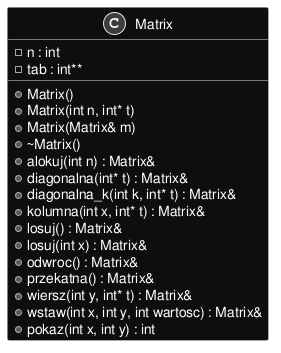
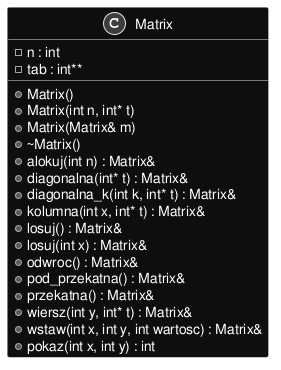
deploy: b374451ecf7142c7efa0f21c524fbab476ba06c3

Changed region(s): [[0.0285, 0.0, 0.9395, 0.966]]

diff --git a/Matrix_8hpp_source.html b/Matrix_8hpp_source.html
@@ -105,52 +105,54 @@ $(function(){initNavTree('Matrix_8hpp_source.html',''); initResizable(true); });
 <a href="Matrix_8hpp.html">Idź do dokumentacji tego pliku.</a><div class="fragment"><div class="line"><a id="l00001" name="l00001"></a><span class="lineno">    1</span><span class="preprocessor">#ifndef A7F977BB_AE3A_48CD_A727_8AFC90710D10</span></div>
 <div class="line"><a id="l00002" name="l00002"></a><span class="lineno">    2</span><span class="preprocessor">#define A7F977BB_AE3A_48CD_A727_8AFC90710D10</span></div>
 <div class="line"><a id="l00003" name="l00003"></a><span class="lineno">    3</span> </div>
-<div class="foldopen" id="foldopen00029" data-start="{" data-end="};">
-<div class="line"><a id="l00029" name="l00029"></a><span class="lineno"><a class="line" href="classMatrix.html">   29</a></span><span class="keyword">class </span><a class="code hl_class" href="classMatrix.html">Matrix</a> {</div>
-<div class="line"><a id="l00030" name="l00030"></a><span class="lineno">   30</span>    <span class="keyword">private</span>:</div>
-<div class="line"><a id="l00031" name="l00031"></a><span class="lineno"><a class="line" href="classMatrix.html#a6f755dbfbefb9b4ba6c2b3acea8932f2">   31</a></span>    <span class="keywordtype">int</span> <a class="code hl_variable" href="classMatrix.html#a6f755dbfbefb9b4ba6c2b3acea8932f2">n</a>;</div>
-<div class="line"><a id="l00032" name="l00032"></a><span class="lineno"><a class="line" href="classMatrix.html#af45069dcccaf5064534287376925dde9">   32</a></span>    <span class="keywordtype">int</span>** <a class="code hl_variable" href="classMatrix.html#af45069dcccaf5064534287376925dde9">tab</a>;</div>
-<div class="line"><a id="l00033" name="l00033"></a><span class="lineno">   33</span>    <span class="keyword">public</span>:</div>
-<div class="line"><a id="l00034" name="l00034"></a><span class="lineno">   34</span>    <a class="code hl_function" href="classMatrix.html#a2dba13c45127354c9f75ef576f49269b">Matrix</a>();</div>
-<div class="line"><a id="l00035" name="l00035"></a><span class="lineno">   35</span>    <a class="code hl_function" href="classMatrix.html#a2dba13c45127354c9f75ef576f49269b">Matrix</a>(<span class="keywordtype">int</span> <a class="code hl_variable" href="classMatrix.html#a6f755dbfbefb9b4ba6c2b3acea8932f2">n</a>, <span class="keywordtype">int</span>* t);</div>
-<div class="line"><a id="l00036" name="l00036"></a><span class="lineno">   36</span>    <a class="code hl_function" href="classMatrix.html#a2dba13c45127354c9f75ef576f49269b">Matrix</a>(<a class="code hl_class" href="classMatrix.html">Matrix</a>&amp; m);</div>
-<div class="line"><a id="l00037" name="l00037"></a><span class="lineno">   37</span>    <a class="code hl_function" href="classMatrix.html#a7e496da93f0e3165a0dc82d79f7ba545">~Matrix</a>(<span class="keywordtype">void</span>);</div>
-<div class="line"><a id="l00038" name="l00038"></a><span class="lineno">   38</span> </div>
+<div class="foldopen" id="foldopen00030" data-start="{" data-end="};">
+<div class="line"><a id="l00030" name="l00030"></a><span class="lineno"><a class="line" href="classMatrix.html">   30</a></span><span class="keyword">class </span><a class="code hl_class" href="classMatrix.html">Matrix</a> {</div>
+<div class="line"><a id="l00031" name="l00031"></a><span class="lineno">   31</span>    <span class="keyword">private</span>:</div>
+<div class="line"><a id="l00032" name="l00032"></a><span class="lineno"><a class="line" href="classMatrix.html#a6f755dbfbefb9b4ba6c2b3acea8932f2">   32</a></span>    <span class="keywordtype">int</span> <a class="code hl_variable" href="classMatrix.html#a6f755dbfbefb9b4ba6c2b3acea8932f2">n</a>;</div>
+<div class="line"><a id="l00033" name="l00033"></a><span class="lineno"><a class="line" href="classMatrix.html#af45069dcccaf5064534287376925dde9">   33</a></span>    <span class="keywordtype">int</span>** <a class="code hl_variable" href="classMatrix.html#af45069dcccaf5064534287376925dde9">tab</a>;</div>
+<div class="line"><a id="l00034" name="l00034"></a><span class="lineno">   34</span>    <span class="keyword">public</span>:</div>
+<div class="line"><a id="l00035" name="l00035"></a><span class="lineno">   35</span>    <a class="code hl_function" href="classMatrix.html#a2dba13c45127354c9f75ef576f49269b">Matrix</a>();</div>
+<div class="line"><a id="l00036" name="l00036"></a><span class="lineno">   36</span>    <a class="code hl_function" href="classMatrix.html#a2dba13c45127354c9f75ef576f49269b">Matrix</a>(<span class="keywordtype">int</span> <a class="code hl_variable" href="classMatrix.html#a6f755dbfbefb9b4ba6c2b3acea8932f2">n</a>, <span class="keywordtype">int</span>* t);</div>
+<div class="line"><a id="l00037" name="l00037"></a><span class="lineno">   37</span>    <a class="code hl_function" href="classMatrix.html#a2dba13c45127354c9f75ef576f49269b">Matrix</a>(<a class="code hl_class" href="classMatrix.html">Matrix</a>&amp; m);</div>
+<div class="line"><a id="l00038" name="l00038"></a><span class="lineno">   38</span>    <a class="code hl_function" href="classMatrix.html#a7e496da93f0e3165a0dc82d79f7ba545">~Matrix</a>(<span class="keywordtype">void</span>);</div>
 <div class="line"><a id="l00039" name="l00039"></a><span class="lineno">   39</span> </div>
-<div class="line"><a id="l00040" name="l00040"></a><span class="lineno">   40</span>    <a class="code hl_class" href="classMatrix.html">Matrix</a>&amp; <a class="code hl_function" href="classMatrix.html#ab3f0a19323d5bd35dca008c68b99051d">alokuj</a>(<span class="keywordtype">int</span> <a class="code hl_variable" href="classMatrix.html#a6f755dbfbefb9b4ba6c2b3acea8932f2">n</a>);</div>
-<div class="line"><a id="l00041" name="l00041"></a><span class="lineno">   41</span>    <a class="code hl_class" href="classMatrix.html">Matrix</a>&amp; <a class="code hl_function" href="classMatrix.html#a4c51072cbc09f22715057260d901b746">wstaw</a>(<span class="keywordtype">int</span> x, <span class="keywordtype">int</span> y, <span class="keywordtype">int</span> wartosc);</div>
-<div class="line"><a id="l00042" name="l00042"></a><span class="lineno">   42</span>    <span class="keywordtype">int</span> <a class="code hl_function" href="classMatrix.html#aed115facfa208a9530c4acde26ffe9b4">pokaz</a>(<span class="keywordtype">int</span> x, <span class="keywordtype">int</span> y);</div>
-<div class="line"><a id="l00043" name="l00043"></a><span class="lineno">   43</span>    <a class="code hl_class" href="classMatrix.html">Matrix</a>&amp; <a class="code hl_function" href="classMatrix.html#a5b1bb742c2b57a692b7bfcc7310ea5b8">odwroc</a>(<span class="keywordtype">void</span>);</div>
-<div class="line"><a id="l00044" name="l00044"></a><span class="lineno">   44</span>    <a class="code hl_class" href="classMatrix.html">Matrix</a>&amp; <a class="code hl_function" href="classMatrix.html#a9890f7ceadc64dfce30c453bc766fbc1">losuj</a>(<span class="keywordtype">void</span>);</div>
-<div class="line"><a id="l00045" name="l00045"></a><span class="lineno">   45</span>    <a class="code hl_class" href="classMatrix.html">Matrix</a>&amp; <a class="code hl_function" href="classMatrix.html#a9890f7ceadc64dfce30c453bc766fbc1">losuj</a>(<span class="keywordtype">int</span> x);</div>
-<div class="line"><a id="l00046" name="l00046"></a><span class="lineno">   46</span>    <a class="code hl_class" href="classMatrix.html">Matrix</a>&amp; <a class="code hl_function" href="classMatrix.html#a58be50b5cc890341c14b1a9b370ab3ea">diagonalna</a>(<span class="keywordtype">int</span>* t);</div>
-<div class="line"><a id="l00047" name="l00047"></a><span class="lineno">   47</span>    <a class="code hl_class" href="classMatrix.html">Matrix</a>&amp; <a class="code hl_function" href="classMatrix.html#adc718e6ae5b2a8b3943a4e8c4bc53d9e">diagonalna_k</a>(<span class="keywordtype">int</span> k, <span class="keywordtype">int</span>* t);</div>
-<div class="line"><a id="l00048" name="l00048"></a><span class="lineno">   48</span>    <a class="code hl_class" href="classMatrix.html">Matrix</a>&amp; <a class="code hl_function" href="classMatrix.html#a07c8cf926bbe71edb6b6de6651e3c3ff">kolumna</a>(<span class="keywordtype">int</span> x, <span class="keywordtype">int</span>* t); </div>
-<div class="line"><a id="l00049" name="l00049"></a><span class="lineno">   49</span>    <a class="code hl_class" href="classMatrix.html">Matrix</a>&amp; <a class="code hl_function" href="classMatrix.html#ab248526b2a9757b3134c8f605699d2af">wiersz</a>(<span class="keywordtype">int</span> y, <span class="keywordtype">int</span>* t);</div>
-<div class="line"><a id="l00050" name="l00050"></a><span class="lineno">   50</span>    <a class="code hl_class" href="classMatrix.html">Matrix</a>&amp; <a class="code hl_function" href="classMatrix.html#a5a803eb1eddeeb51348addc3df4adfc4">przekatna</a>(<span class="keywordtype">void</span>); </div>
-<div class="line"><a id="l00051" name="l00051"></a><span class="lineno">   51</span>};</div>
+<div class="line"><a id="l00040" name="l00040"></a><span class="lineno">   40</span> </div>
+<div class="line"><a id="l00041" name="l00041"></a><span class="lineno">   41</span>    <a class="code hl_class" href="classMatrix.html">Matrix</a>&amp; <a class="code hl_function" href="classMatrix.html#ab3f0a19323d5bd35dca008c68b99051d">alokuj</a>(<span class="keywordtype">int</span> <a class="code hl_variable" href="classMatrix.html#a6f755dbfbefb9b4ba6c2b3acea8932f2">n</a>);</div>
+<div class="line"><a id="l00042" name="l00042"></a><span class="lineno">   42</span>    <a class="code hl_class" href="classMatrix.html">Matrix</a>&amp; <a class="code hl_function" href="classMatrix.html#a4c51072cbc09f22715057260d901b746">wstaw</a>(<span class="keywordtype">int</span> x, <span class="keywordtype">int</span> y, <span class="keywordtype">int</span> wartosc);</div>
+<div class="line"><a id="l00043" name="l00043"></a><span class="lineno">   43</span>    <span class="keywordtype">int</span> <a class="code hl_function" href="classMatrix.html#aed115facfa208a9530c4acde26ffe9b4">pokaz</a>(<span class="keywordtype">int</span> x, <span class="keywordtype">int</span> y);</div>
+<div class="line"><a id="l00044" name="l00044"></a><span class="lineno">   44</span>    <a class="code hl_class" href="classMatrix.html">Matrix</a>&amp; <a class="code hl_function" href="classMatrix.html#a5b1bb742c2b57a692b7bfcc7310ea5b8">odwroc</a>(<span class="keywordtype">void</span>);</div>
+<div class="line"><a id="l00045" name="l00045"></a><span class="lineno">   45</span>    <a class="code hl_class" href="classMatrix.html">Matrix</a>&amp; <a class="code hl_function" href="classMatrix.html#a9890f7ceadc64dfce30c453bc766fbc1">losuj</a>(<span class="keywordtype">void</span>);</div>
+<div class="line"><a id="l00046" name="l00046"></a><span class="lineno">   46</span>    <a class="code hl_class" href="classMatrix.html">Matrix</a>&amp; <a class="code hl_function" href="classMatrix.html#a9890f7ceadc64dfce30c453bc766fbc1">losuj</a>(<span class="keywordtype">int</span> x);</div>
+<div class="line"><a id="l00047" name="l00047"></a><span class="lineno">   47</span>    <a class="code hl_class" href="classMatrix.html">Matrix</a>&amp; <a class="code hl_function" href="classMatrix.html#a58be50b5cc890341c14b1a9b370ab3ea">diagonalna</a>(<span class="keywordtype">int</span>* t);</div>
+<div class="line"><a id="l00048" name="l00048"></a><span class="lineno">   48</span>    <a class="code hl_class" href="classMatrix.html">Matrix</a>&amp; <a class="code hl_function" href="classMatrix.html#adc718e6ae5b2a8b3943a4e8c4bc53d9e">diagonalna_k</a>(<span class="keywordtype">int</span> k, <span class="keywordtype">int</span>* t);</div>
+<div class="line"><a id="l00049" name="l00049"></a><span class="lineno">   49</span>    <a class="code hl_class" href="classMatrix.html">Matrix</a>&amp; <a class="code hl_function" href="classMatrix.html#a07c8cf926bbe71edb6b6de6651e3c3ff">kolumna</a>(<span class="keywordtype">int</span> x, <span class="keywordtype">int</span>* t); </div>
+<div class="line"><a id="l00050" name="l00050"></a><span class="lineno">   50</span>    <a class="code hl_class" href="classMatrix.html">Matrix</a>&amp; <a class="code hl_function" href="classMatrix.html#ab248526b2a9757b3134c8f605699d2af">wiersz</a>(<span class="keywordtype">int</span> y, <span class="keywordtype">int</span>* t);</div>
+<div class="line"><a id="l00051" name="l00051"></a><span class="lineno">   51</span>    <a class="code hl_class" href="classMatrix.html">Matrix</a>&amp; <a class="code hl_function" href="classMatrix.html#a5a803eb1eddeeb51348addc3df4adfc4">przekatna</a>(<span class="keywordtype">void</span>); </div>
+<div class="line"><a id="l00052" name="l00052"></a><span class="lineno"><a class="line" href="classMatrix.html#a94ae5c979b6a38c75ea10988c5319f34">   52</a></span>    <a class="code hl_class" href="classMatrix.html">Matrix</a>&amp; <a class="code hl_function" href="classMatrix.html#a94ae5c979b6a38c75ea10988c5319f34">pod_przekatna</a>(<span class="keywordtype">void</span>);</div>
+<div class="line"><a id="l00053" name="l00053"></a><span class="lineno">   53</span>};</div>
 </div>
-<div class="line"><a id="l00052" name="l00052"></a><span class="lineno">   52</span> </div>
-<div class="line"><a id="l00053" name="l00053"></a><span class="lineno">   53</span> </div>
 <div class="line"><a id="l00054" name="l00054"></a><span class="lineno">   54</span> </div>
 <div class="line"><a id="l00055" name="l00055"></a><span class="lineno">   55</span> </div>
 <div class="line"><a id="l00056" name="l00056"></a><span class="lineno">   56</span> </div>
-<div class="line"><a id="l00057" name="l00057"></a><span class="lineno">   57</span><span class="preprocessor">#endif </span><span class="comment">/* A7F977BB_AE3A_48CD_A727_8AFC90710D10 */</span><span class="preprocessor"></span></div>
-<div class="ttc" id="aclassMatrix_html"><div class="ttname"><a href="classMatrix.html">Matrix</a></div><div class="ttdef"><b>Definicja</b> Matrix.hpp:29</div></div>
+<div class="line"><a id="l00057" name="l00057"></a><span class="lineno">   57</span> </div>
+<div class="line"><a id="l00058" name="l00058"></a><span class="lineno">   58</span> </div>
+<div class="line"><a id="l00059" name="l00059"></a><span class="lineno">   59</span><span class="preprocessor">#endif </span><span class="comment">/* A7F977BB_AE3A_48CD_A727_8AFC90710D10 */</span><span class="preprocessor"></span></div>
+<div class="ttc" id="aclassMatrix_html"><div class="ttname"><a href="classMatrix.html">Matrix</a></div><div class="ttdef"><b>Definicja</b> Matrix.hpp:30</div></div>
 <div class="ttc" id="aclassMatrix_html_a07c8cf926bbe71edb6b6de6651e3c3ff"><div class="ttname"><a href="classMatrix.html#a07c8cf926bbe71edb6b6de6651e3c3ff">Matrix::kolumna</a></div><div class="ttdeci">Matrix &amp; kolumna(int x, int *t)</div><div class="ttdef"><b>Definicja</b> Matrix.cpp:161</div></div>
 <div class="ttc" id="aclassMatrix_html_a2dba13c45127354c9f75ef576f49269b"><div class="ttname"><a href="classMatrix.html#a2dba13c45127354c9f75ef576f49269b">Matrix::Matrix</a></div><div class="ttdeci">Matrix()</div><div class="ttdef"><b>Definicja</b> Matrix.cpp:11</div></div>
 <div class="ttc" id="aclassMatrix_html_a4c51072cbc09f22715057260d901b746"><div class="ttname"><a href="classMatrix.html#a4c51072cbc09f22715057260d901b746">Matrix::wstaw</a></div><div class="ttdeci">Matrix &amp; wstaw(int x, int y, int wartosc)</div><div class="ttdef"><b>Definicja</b> Matrix.cpp:60</div></div>
 <div class="ttc" id="aclassMatrix_html_a58be50b5cc890341c14b1a9b370ab3ea"><div class="ttname"><a href="classMatrix.html#a58be50b5cc890341c14b1a9b370ab3ea">Matrix::diagonalna</a></div><div class="ttdeci">Matrix &amp; diagonalna(int *t)</div><div class="ttdef"><b>Definicja</b> Matrix.cpp:127</div></div>
 <div class="ttc" id="aclassMatrix_html_a5a803eb1eddeeb51348addc3df4adfc4"><div class="ttname"><a href="classMatrix.html#a5a803eb1eddeeb51348addc3df4adfc4">Matrix::przekatna</a></div><div class="ttdeci">Matrix &amp; przekatna(void)</div><div class="ttdef"><b>Definicja</b> Matrix.cpp:182</div></div>
 <div class="ttc" id="aclassMatrix_html_a5b1bb742c2b57a692b7bfcc7310ea5b8"><div class="ttname"><a href="classMatrix.html#a5b1bb742c2b57a692b7bfcc7310ea5b8">Matrix::odwroc</a></div><div class="ttdeci">Matrix &amp; odwroc(void)</div><div class="ttdef"><b>Definicja</b> Matrix.cpp:78</div></div>
-<div class="ttc" id="aclassMatrix_html_a6f755dbfbefb9b4ba6c2b3acea8932f2"><div class="ttname"><a href="classMatrix.html#a6f755dbfbefb9b4ba6c2b3acea8932f2">Matrix::n</a></div><div class="ttdeci">int n</div><div class="ttdef"><b>Definicja</b> Matrix.hpp:31</div></div>
+<div class="ttc" id="aclassMatrix_html_a6f755dbfbefb9b4ba6c2b3acea8932f2"><div class="ttname"><a href="classMatrix.html#a6f755dbfbefb9b4ba6c2b3acea8932f2">Matrix::n</a></div><div class="ttdeci">int n</div><div class="ttdef"><b>Definicja</b> Matrix.hpp:32</div></div>
 <div class="ttc" id="aclassMatrix_html_a7e496da93f0e3165a0dc82d79f7ba545"><div class="ttname"><a href="classMatrix.html#a7e496da93f0e3165a0dc82d79f7ba545">Matrix::~Matrix</a></div><div class="ttdeci">~Matrix(void)</div><div class="ttdef"><b>Definicja</b> Matrix.cpp:4</div></div>
+<div class="ttc" id="aclassMatrix_html_a94ae5c979b6a38c75ea10988c5319f34"><div class="ttname"><a href="classMatrix.html#a94ae5c979b6a38c75ea10988c5319f34">Matrix::pod_przekatna</a></div><div class="ttdeci">Matrix &amp; pod_przekatna(void)</div></div>
 <div class="ttc" id="aclassMatrix_html_a9890f7ceadc64dfce30c453bc766fbc1"><div class="ttname"><a href="classMatrix.html#a9890f7ceadc64dfce30c453bc766fbc1">Matrix::losuj</a></div><div class="ttdeci">Matrix &amp; losuj(void)</div><div class="ttdef"><b>Definicja</b> Matrix.cpp:100</div></div>
 <div class="ttc" id="aclassMatrix_html_ab248526b2a9757b3134c8f605699d2af"><div class="ttname"><a href="classMatrix.html#ab248526b2a9757b3134c8f605699d2af">Matrix::wiersz</a></div><div class="ttdeci">Matrix &amp; wiersz(int y, int *t)</div><div class="ttdef"><b>Definicja</b> Matrix.cpp:172</div></div>
 <div class="ttc" id="aclassMatrix_html_ab3f0a19323d5bd35dca008c68b99051d"><div class="ttname"><a href="classMatrix.html#ab3f0a19323d5bd35dca008c68b99051d">Matrix::alokuj</a></div><div class="ttdeci">Matrix &amp; alokuj(int n)</div><div class="ttdef"><b>Definicja</b> Matrix.cpp:33</div></div>
 <div class="ttc" id="aclassMatrix_html_adc718e6ae5b2a8b3943a4e8c4bc53d9e"><div class="ttname"><a href="classMatrix.html#adc718e6ae5b2a8b3943a4e8c4bc53d9e">Matrix::diagonalna_k</a></div><div class="ttdeci">Matrix &amp; diagonalna_k(int k, int *t)</div><div class="ttdef"><b>Definicja</b> Matrix.cpp:141</div></div>
 <div class="ttc" id="aclassMatrix_html_aed115facfa208a9530c4acde26ffe9b4"><div class="ttname"><a href="classMatrix.html#aed115facfa208a9530c4acde26ffe9b4">Matrix::pokaz</a></div><div class="ttdeci">int pokaz(int x, int y)</div><div class="ttdef"><b>Definicja</b> Matrix.cpp:69</div></div>
-<div class="ttc" id="aclassMatrix_html_af45069dcccaf5064534287376925dde9"><div class="ttname"><a href="classMatrix.html#af45069dcccaf5064534287376925dde9">Matrix::tab</a></div><div class="ttdeci">int ** tab</div><div class="ttdef"><b>Definicja</b> Matrix.hpp:32</div></div>
+<div class="ttc" id="aclassMatrix_html_af45069dcccaf5064534287376925dde9"><div class="ttname"><a href="classMatrix.html#af45069dcccaf5064534287376925dde9">Matrix::tab</a></div><div class="ttdeci">int ** tab</div><div class="ttdef"><b>Definicja</b> Matrix.hpp:33</div></div>
 </div><!-- fragment --></div><!-- contents -->
 </div><!-- doc-content -->
 <!-- start footer part -->

diff --git a/classMatrix-members.html b/classMatrix-members.html
@@ -116,12 +116,13 @@ $(function(){initNavTree('classMatrix.html',''); initResizable(true); });
   <tr class="even"><td class="entry"><a class="el" href="classMatrix.html#af4c99503d4e4b31c5e73eceef9c7e1d0">Matrix</a>(Matrix &amp;m)</td><td class="entry"><a class="el" href="classMatrix.html">Matrix</a></td><td class="entry"></td></tr>
   <tr class="odd"><td class="entry"><a class="el" href="classMatrix.html#a6f755dbfbefb9b4ba6c2b3acea8932f2">n</a></td><td class="entry"><a class="el" href="classMatrix.html">Matrix</a></td><td class="entry"><span class="mlabel">private</span></td></tr>
   <tr class="even"><td class="entry"><a class="el" href="classMatrix.html#a5b1bb742c2b57a692b7bfcc7310ea5b8">odwroc</a>(void)</td><td class="entry"><a class="el" href="classMatrix.html">Matrix</a></td><td class="entry"></td></tr>
-  <tr class="odd"><td class="entry"><a class="el" href="classMatrix.html#aed115facfa208a9530c4acde26ffe9b4">pokaz</a>(int x, int y)</td><td class="entry"><a class="el" href="classMatrix.html">Matrix</a></td><td class="entry"></td></tr>
-  <tr class="even"><td class="entry"><a class="el" href="classMatrix.html#a5a803eb1eddeeb51348addc3df4adfc4">przekatna</a>(void)</td><td class="entry"><a class="el" href="classMatrix.html">Matrix</a></td><td class="entry"></td></tr>
-  <tr class="odd"><td class="entry"><a class="el" href="classMatrix.html#af45069dcccaf5064534287376925dde9">tab</a></td><td class="entry"><a class="el" href="classMatrix.html">Matrix</a></td><td class="entry"><span class="mlabel">private</span></td></tr>
-  <tr class="even"><td class="entry"><a class="el" href="classMatrix.html#ab248526b2a9757b3134c8f605699d2af">wiersz</a>(int y, int *t)</td><td class="entry"><a class="el" href="classMatrix.html">Matrix</a></td><td class="entry"></td></tr>
-  <tr class="odd"><td class="entry"><a class="el" href="classMatrix.html#a4c51072cbc09f22715057260d901b746">wstaw</a>(int x, int y, int wartosc)</td><td class="entry"><a class="el" href="classMatrix.html">Matrix</a></td><td class="entry"></td></tr>
-  <tr class="even"><td class="entry"><a class="el" href="classMatrix.html#a7e496da93f0e3165a0dc82d79f7ba545">~Matrix</a>(void)</td><td class="entry"><a class="el" href="classMatrix.html">Matrix</a></td><td class="entry"></td></tr>
+  <tr class="odd"><td class="entry"><a class="el" href="classMatrix.html#a94ae5c979b6a38c75ea10988c5319f34">pod_przekatna</a>(void)</td><td class="entry"><a class="el" href="classMatrix.html">Matrix</a></td><td class="entry"></td></tr>
+  <tr class="even"><td class="entry"><a class="el" href="classMatrix.html#aed115facfa208a9530c4acde26ffe9b4">pokaz</a>(int x, int y)</td><td class="entry"><a class="el" href="classMatrix.html">Matrix</a></td><td class="entry"></td></tr>
+  <tr class="odd"><td class="entry"><a class="el" href="classMatrix.html#a5a803eb1eddeeb51348addc3df4adfc4">przekatna</a>(void)</td><td class="entry"><a class="el" href="classMatrix.html">Matrix</a></td><td class="entry"></td></tr>
+  <tr class="even"><td class="entry"><a class="el" href="classMatrix.html#af45069dcccaf5064534287376925dde9">tab</a></td><td class="entry"><a class="el" href="classMatrix.html">Matrix</a></td><td class="entry"><span class="mlabel">private</span></td></tr>
+  <tr class="odd"><td class="entry"><a class="el" href="classMatrix.html#ab248526b2a9757b3134c8f605699d2af">wiersz</a>(int y, int *t)</td><td class="entry"><a class="el" href="classMatrix.html">Matrix</a></td><td class="entry"></td></tr>
+  <tr class="even"><td class="entry"><a class="el" href="classMatrix.html#a4c51072cbc09f22715057260d901b746">wstaw</a>(int x, int y, int wartosc)</td><td class="entry"><a class="el" href="classMatrix.html">Matrix</a></td><td class="entry"></td></tr>
+  <tr class="odd"><td class="entry"><a class="el" href="classMatrix.html#a7e496da93f0e3165a0dc82d79f7ba545">~Matrix</a>(void)</td><td class="entry"><a class="el" href="classMatrix.html">Matrix</a></td><td class="entry"></td></tr>
 </table></div><!-- contents -->
 </div><!-- doc-content -->
 <!-- start footer part -->

diff --git a/classMatrix.html b/classMatrix.html
@@ -141,6 +141,8 @@ Metody publiczne</h2></td></tr>
 <tr class="separator:ab248526b2a9757b3134c8f605699d2af"><td class="memSeparator" colspan="2">&#160;</td></tr>
 <tr class="memitem:a5a803eb1eddeeb51348addc3df4adfc4" id="r_a5a803eb1eddeeb51348addc3df4adfc4"><td class="memItemLeft" align="right" valign="top"><a class="el" href="classMatrix.html">Matrix</a> &amp;&#160;</td><td class="memItemRight" valign="bottom"><a class="el" href="#a5a803eb1eddeeb51348addc3df4adfc4">przekatna</a> (void)</td></tr>
 <tr class="separator:a5a803eb1eddeeb51348addc3df4adfc4"><td class="memSeparator" colspan="2">&#160;</td></tr>
+<tr class="memitem:a94ae5c979b6a38c75ea10988c5319f34" id="r_a94ae5c979b6a38c75ea10988c5319f34"><td class="memItemLeft" align="right" valign="top"><a class="el" href="classMatrix.html">Matrix</a> &amp;&#160;</td><td class="memItemRight" valign="bottom"><a class="el" href="#a94ae5c979b6a38c75ea10988c5319f34">pod_przekatna</a> (void)</td></tr>
+<tr class="separator:a94ae5c979b6a38c75ea10988c5319f34"><td class="memSeparator" colspan="2">&#160;</td></tr>
 </table><table class="memberdecls">
 <tr class="heading"><td colspan="2"><h2 class="groupheader"><a id="pri-attribs" name="pri-attribs"></a>
 Atrybuty prywatne</h2></td></tr>
@@ -345,6 +347,23 @@ Atrybuty prywatne</h2></td></tr>
       <table class="memname">
         <tr>
           <td class="memname"><a class="el" href="classMatrix.html">Matrix</a> &amp; Matrix::odwroc </td>
+          <td>(</td>
+          <td class="paramtype">void</td>          <td class="paramname"><span class="paramname"><em></em></span></td><td>)</td>
+          <td></td>
+        </tr>
+      </table>
+</div><div class="memdoc">
+
+</div>
+</div>
+<a id="a94ae5c979b6a38c75ea10988c5319f34" name="a94ae5c979b6a38c75ea10988c5319f34"></a>
+<h2 class="memtitle"><span class="permalink"><a href="#a94ae5c979b6a38c75ea10988c5319f34">&#9670;&#160;</a></span>pod_przekatna()</h2>
+
+<div class="memitem">
+<div class="memproto">
+      <table class="memname">
+        <tr>
+          <td class="memname"><a class="el" href="classMatrix.html">Matrix</a> &amp; Matrix::pod_przekatna </td>
           <td>(</td>
           <td class="paramtype">void</td>          <td class="paramname"><span class="paramname"><em></em></span></td><td>)</td>
           <td></td>

diff --git a/navtreeindex0.js b/navtreeindex0.js
@@ -9,18 +9,19 @@ var NAVTREEINDEX0 =
 "classMatrix.html#a2dba13c45127354c9f75ef576f49269b":[1,0,0,0],
 "classMatrix.html#a3637f6ad376fdc053d595bce3e17ec02":[1,0,0,1],
 "classMatrix.html#a381bbe46892c80e0837e1080eea9943e":[1,0,0,8],
-"classMatrix.html#a4c51072cbc09f22715057260d901b746":[1,0,0,14],
+"classMatrix.html#a4c51072cbc09f22715057260d901b746":[1,0,0,15],
 "classMatrix.html#a58be50b5cc890341c14b1a9b370ab3ea":[1,0,0,5],
-"classMatrix.html#a5a803eb1eddeeb51348addc3df4adfc4":[1,0,0,12],
+"classMatrix.html#a5a803eb1eddeeb51348addc3df4adfc4":[1,0,0,13],
 "classMatrix.html#a5b1bb742c2b57a692b7bfcc7310ea5b8":[1,0,0,10],
-"classMatrix.html#a6f755dbfbefb9b4ba6c2b3acea8932f2":[1,0,0,15],
+"classMatrix.html#a6f755dbfbefb9b4ba6c2b3acea8932f2":[1,0,0,16],
 "classMatrix.html#a7e496da93f0e3165a0dc82d79f7ba545":[1,0,0,3],
+"classMatrix.html#a94ae5c979b6a38c75ea10988c5319f34":[1,0,0,11],
 "classMatrix.html#a9890f7ceadc64dfce30c453bc766fbc1":[1,0,0,9],
-"classMatrix.html#ab248526b2a9757b3134c8f605699d2af":[1,0,0,13],
+"classMatrix.html#ab248526b2a9757b3134c8f605699d2af":[1,0,0,14],
 "classMatrix.html#ab3f0a19323d5bd35dca008c68b99051d":[1,0,0,4],
 "classMatrix.html#adc718e6ae5b2a8b3943a4e8c4bc53d9e":[1,0,0,6],
-"classMatrix.html#aed115facfa208a9530c4acde26ffe9b4":[1,0,0,11],
-"classMatrix.html#af45069dcccaf5064534287376925dde9":[1,0,0,16],
+"classMatrix.html#aed115facfa208a9530c4acde26ffe9b4":[1,0,0,12],
+"classMatrix.html#af45069dcccaf5064534287376925dde9":[1,0,0,17],
 "classMatrix.html#af4c99503d4e4b31c5e73eceef9c7e1d0":[1,0,0,2],
 "classes.html":[1,1],
 "convert_8py.html":[2,0,0],

diff --git a/search/all_b.js b/search/all_b.js
@@ -1,8 +1,9 @@
 var searchData=
 [
-  ['pokaz_0',['pokaz',['../classMatrix.html#aed115facfa208a9530c4acde26ffe9b4',1,'Matrix']]],
-  ['private_1',['private',['../namespaceconvert.html#aaf142f8cbf0a54594b379e84402c1e5a',1,'convert']]],
-  ['protected_2',['protected',['../namespaceconvert.html#a99a27ec9e9d1811bb61c761f313acec8',1,'convert']]],
-  ['przekatna_3',['przekatna',['../classMatrix.html#a5a803eb1eddeeb51348addc3df4adfc4',1,'Matrix']]],
-  ['public_4',['public',['../namespaceconvert.html#a688489b6f5e64d8d1723b593f2ff3524',1,'convert']]]
+  ['pod_5fprzekatna_0',['pod_przekatna',['../classMatrix.html#a94ae5c979b6a38c75ea10988c5319f34',1,'Matrix']]],
+  ['pokaz_1',['pokaz',['../classMatrix.html#aed115facfa208a9530c4acde26ffe9b4',1,'Matrix']]],
+  ['private_2',['private',['../namespaceconvert.html#aaf142f8cbf0a54594b379e84402c1e5a',1,'convert']]],
+  ['protected_3',['protected',['../namespaceconvert.html#a99a27ec9e9d1811bb61c761f313acec8',1,'convert']]],
+  ['przekatna_4',['przekatna',['../classMatrix.html#a5a803eb1eddeeb51348addc3df4adfc4',1,'Matrix']]],
+  ['public_5',['public',['../namespaceconvert.html#a688489b6f5e64d8d1723b593f2ff3524',1,'convert']]]
 ];

diff --git a/functions_func.html b/functions_func.html
@@ -107,6 +107,7 @@ $(function(){initNavTree('functions_func.html',''); initResizable(true); });
 <li>losuj()&#160;:&#160;<a class="el" href="classMatrix.html#a9890f7ceadc64dfce30c453bc766fbc1">Matrix</a></li>
 <li>Matrix()&#160;:&#160;<a class="el" href="classMatrix.html#a2dba13c45127354c9f75ef576f49269b">Matrix</a></li>
 <li>odwroc()&#160;:&#160;<a class="el" href="classMatrix.html#a5b1bb742c2b57a692b7bfcc7310ea5b8">Matrix</a></li>
+<li>pod_przekatna()&#160;:&#160;<a class="el" href="classMatrix.html#a94ae5c979b6a38c75ea10988c5319f34">Matrix</a></li>
 <li>pokaz()&#160;:&#160;<a class="el" href="classMatrix.html#aed115facfa208a9530c4acde26ffe9b4">Matrix</a></li>
 <li>przekatna()&#160;:&#160;<a class="el" href="classMatrix.html#a5a803eb1eddeeb51348addc3df4adfc4">Matrix</a></li>
 <li>wiersz()&#160;:&#160;<a class="el" href="classMatrix.html#ab248526b2a9757b3134c8f605699d2af">Matrix</a></li>

diff --git a/functions.html b/functions.html
@@ -108,6 +108,7 @@ $(function(){initNavTree('functions.html',''); initResizable(true); });
 <li>Matrix()&#160;:&#160;<a class="el" href="classMatrix.html#a2dba13c45127354c9f75ef576f49269b">Matrix</a></li>
 <li>n&#160;:&#160;<a class="el" href="classMatrix.html#a6f755dbfbefb9b4ba6c2b3acea8932f2">Matrix</a></li>
 <li>odwroc()&#160;:&#160;<a class="el" href="classMatrix.html#a5b1bb742c2b57a692b7bfcc7310ea5b8">Matrix</a></li>
+<li>pod_przekatna()&#160;:&#160;<a class="el" href="classMatrix.html#a94ae5c979b6a38c75ea10988c5319f34">Matrix</a></li>
 <li>pokaz()&#160;:&#160;<a class="el" href="classMatrix.html#aed115facfa208a9530c4acde26ffe9b4">Matrix</a></li>
 <li>przekatna()&#160;:&#160;<a class="el" href="classMatrix.html#a5a803eb1eddeeb51348addc3df4adfc4">Matrix</a></li>
 <li>tab&#160;:&#160;<a class="el" href="classMatrix.html#af45069dcccaf5064534287376925dde9">Matrix</a></li>

diff --git a/classMatrix.js b/classMatrix.js
@@ -11,6 +11,7 @@ var classMatrix =
     [ "losuj", "classMatrix.html#a381bbe46892c80e0837e1080eea9943e", null ],
     [ "losuj", "classMatrix.html#a9890f7ceadc64dfce30c453bc766fbc1", null ],
     [ "odwroc", "classMatrix.html#a5b1bb742c2b57a692b7bfcc7310ea5b8", null ],
+    [ "pod_przekatna", "classMatrix.html#a94ae5c979b6a38c75ea10988c5319f34", null ],
     [ "pokaz", "classMatrix.html#aed115facfa208a9530c4acde26ffe9b4", null ],
     [ "przekatna", "classMatrix.html#a5a803eb1eddeeb51348addc3df4adfc4", null ],
     [ "wiersz", "classMatrix.html#ab248526b2a9757b3134c8f605699d2af", null ],

diff --git a/search/functions_7.js b/search/functions_7.js
@@ -1,5 +1,6 @@
 var searchData=
 [
-  ['pokaz_0',['pokaz',['../classMatrix.html#aed115facfa208a9530c4acde26ffe9b4',1,'Matrix']]],
-  ['przekatna_1',['przekatna',['../classMatrix.html#a5a803eb1eddeeb51348addc3df4adfc4',1,'Matrix']]]
+  ['pod_5fprzekatna_0',['pod_przekatna',['../classMatrix.html#a94ae5c979b6a38c75ea10988c5319f34',1,'Matrix']]],
+  ['pokaz_1',['pokaz',['../classMatrix.html#aed115facfa208a9530c4acde26ffe9b4',1,'Matrix']]],
+  ['przekatna_2',['przekatna',['../classMatrix.html#a5a803eb1eddeeb51348addc3df4adfc4',1,'Matrix']]]
 ];

diff --git a/doxygen_crawl.html b/doxygen_crawl.html
@@ -79,6 +79,7 @@
 <a href="classMatrix.html#a5b1bb742c2b57a692b7bfcc7310ea5b8"/>
 <a href="classMatrix.html#a6f755dbfbefb9b4ba6c2b3acea8932f2"/>
 <a href="classMatrix.html#a7e496da93f0e3165a0dc82d79f7ba545"/>
+<a href="classMatrix.html#a94ae5c979b6a38c75ea10988c5319f34"/>
 <a href="classMatrix.html#a9890f7ceadc64dfce30c453bc766fbc1"/>
 <a href="classMatrix.html#ab248526b2a9757b3134c8f605699d2af"/>
 <a href="classMatrix.html#ab3f0a19323d5bd35dca008c68b99051d"/>
